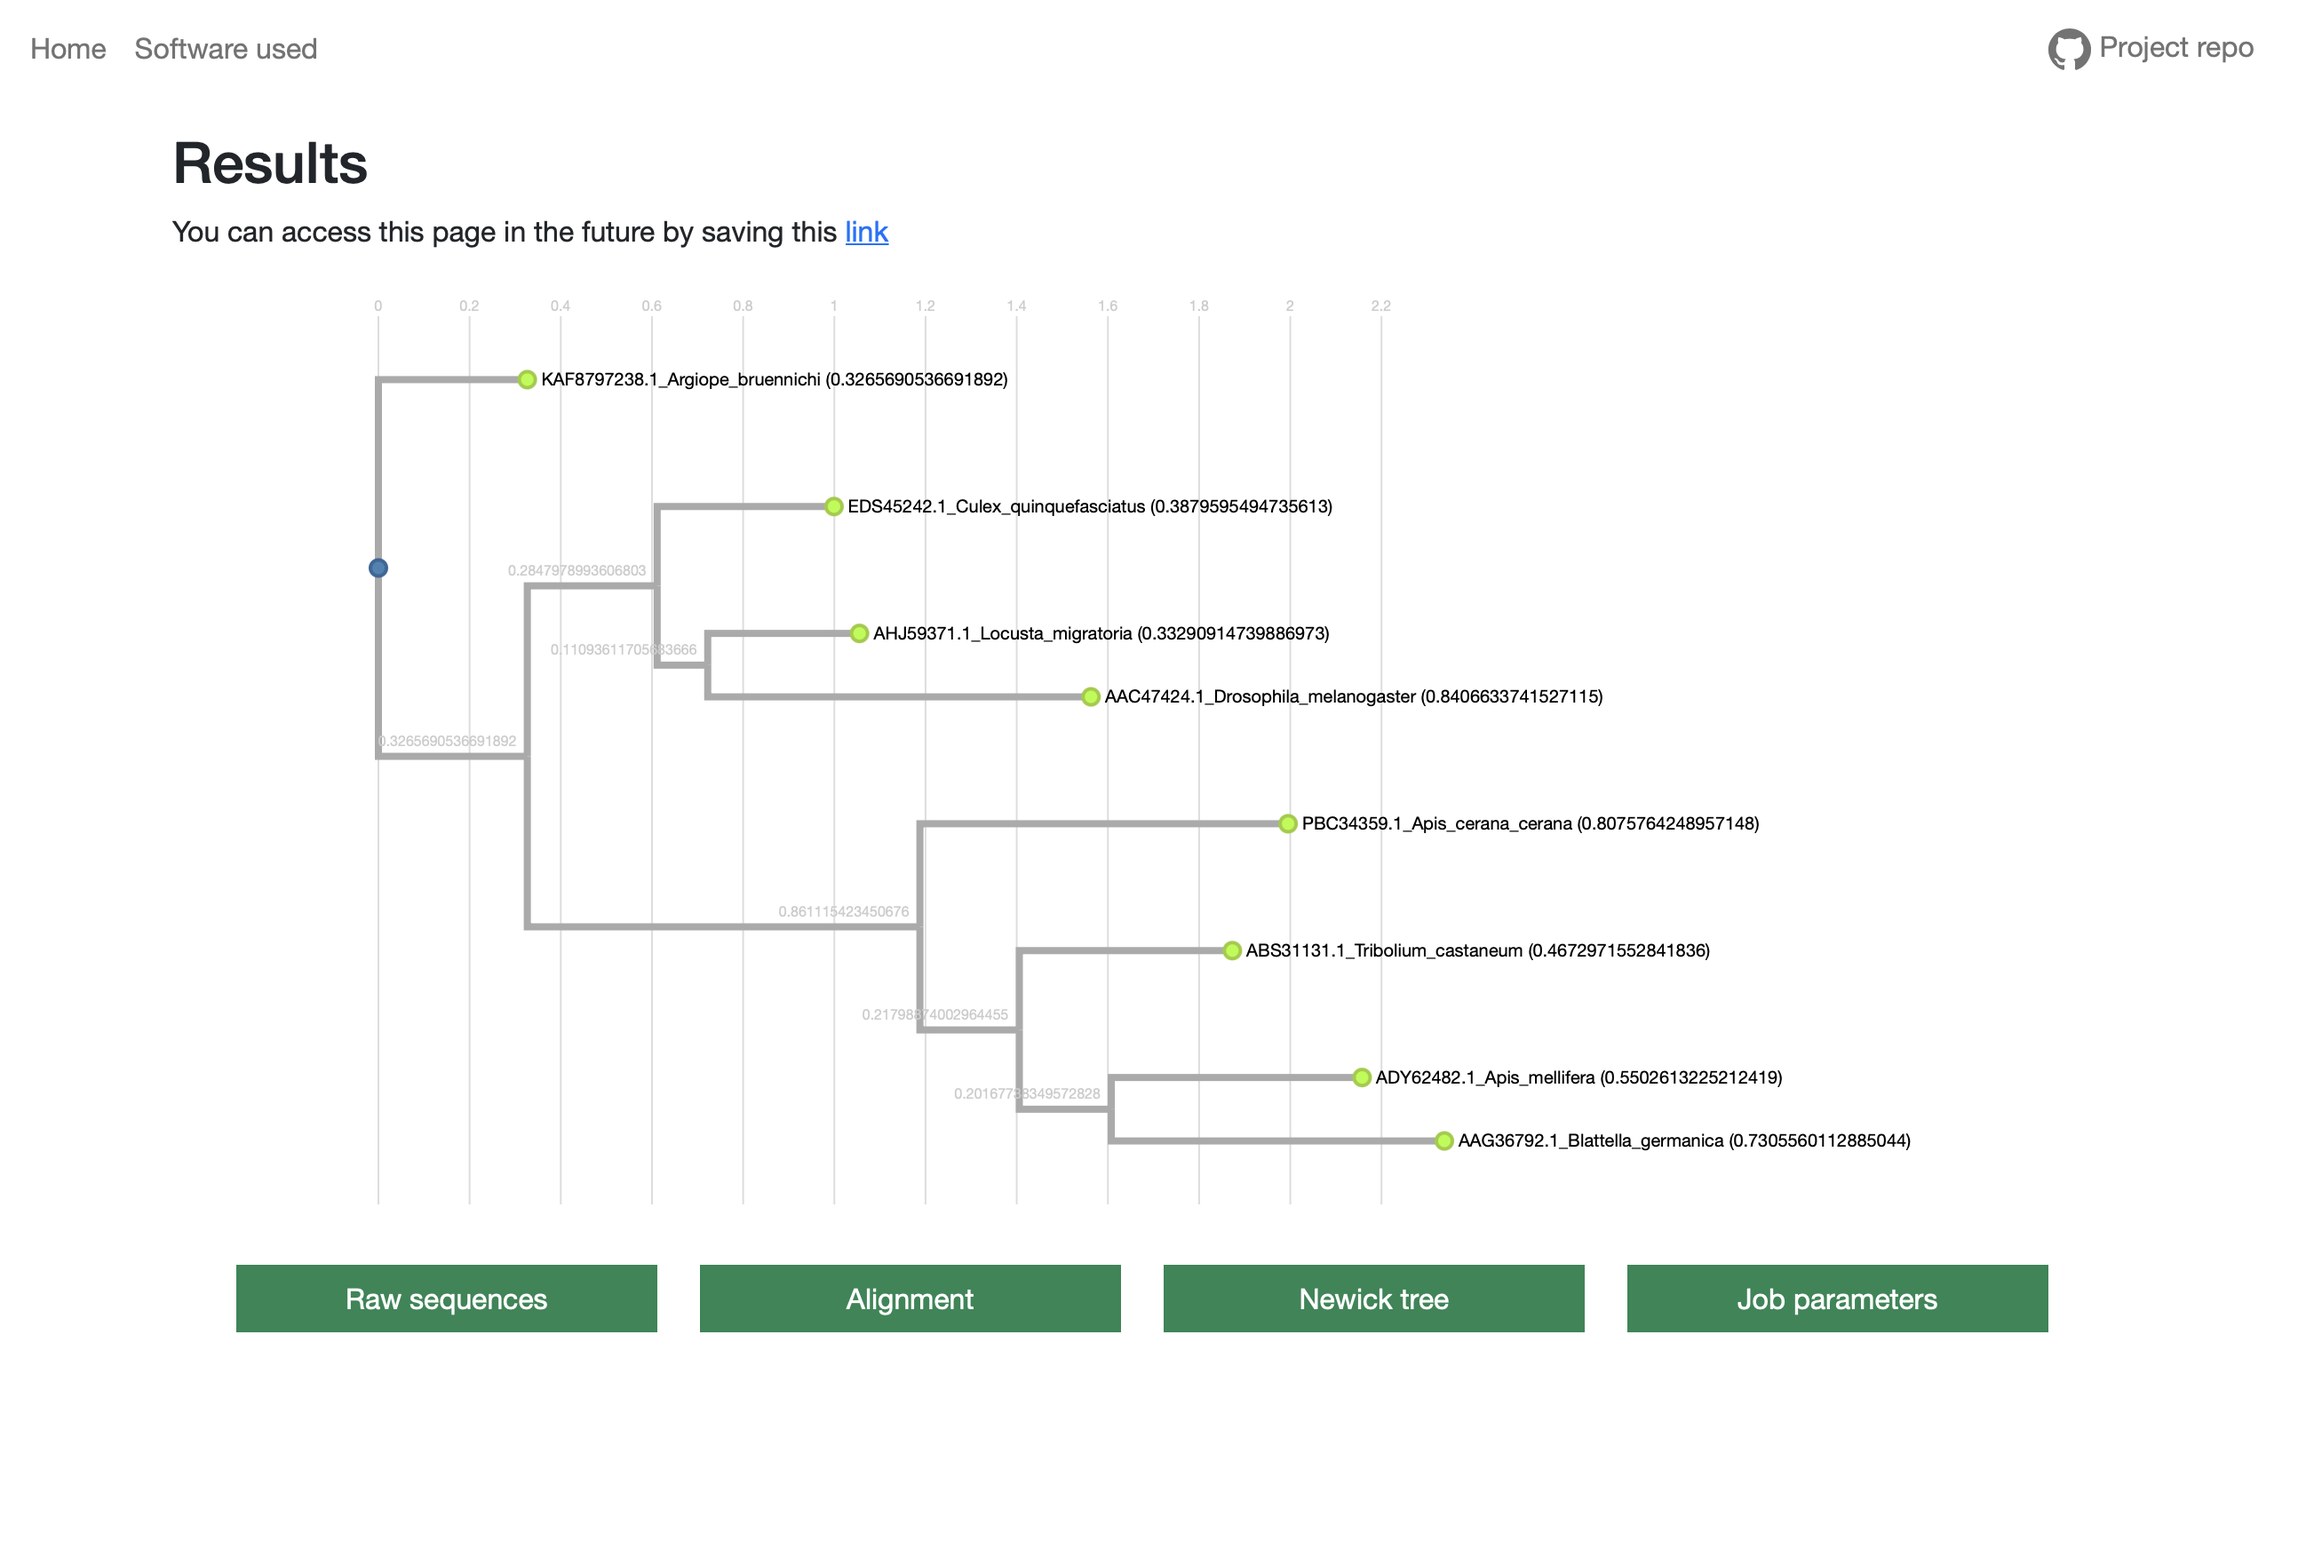
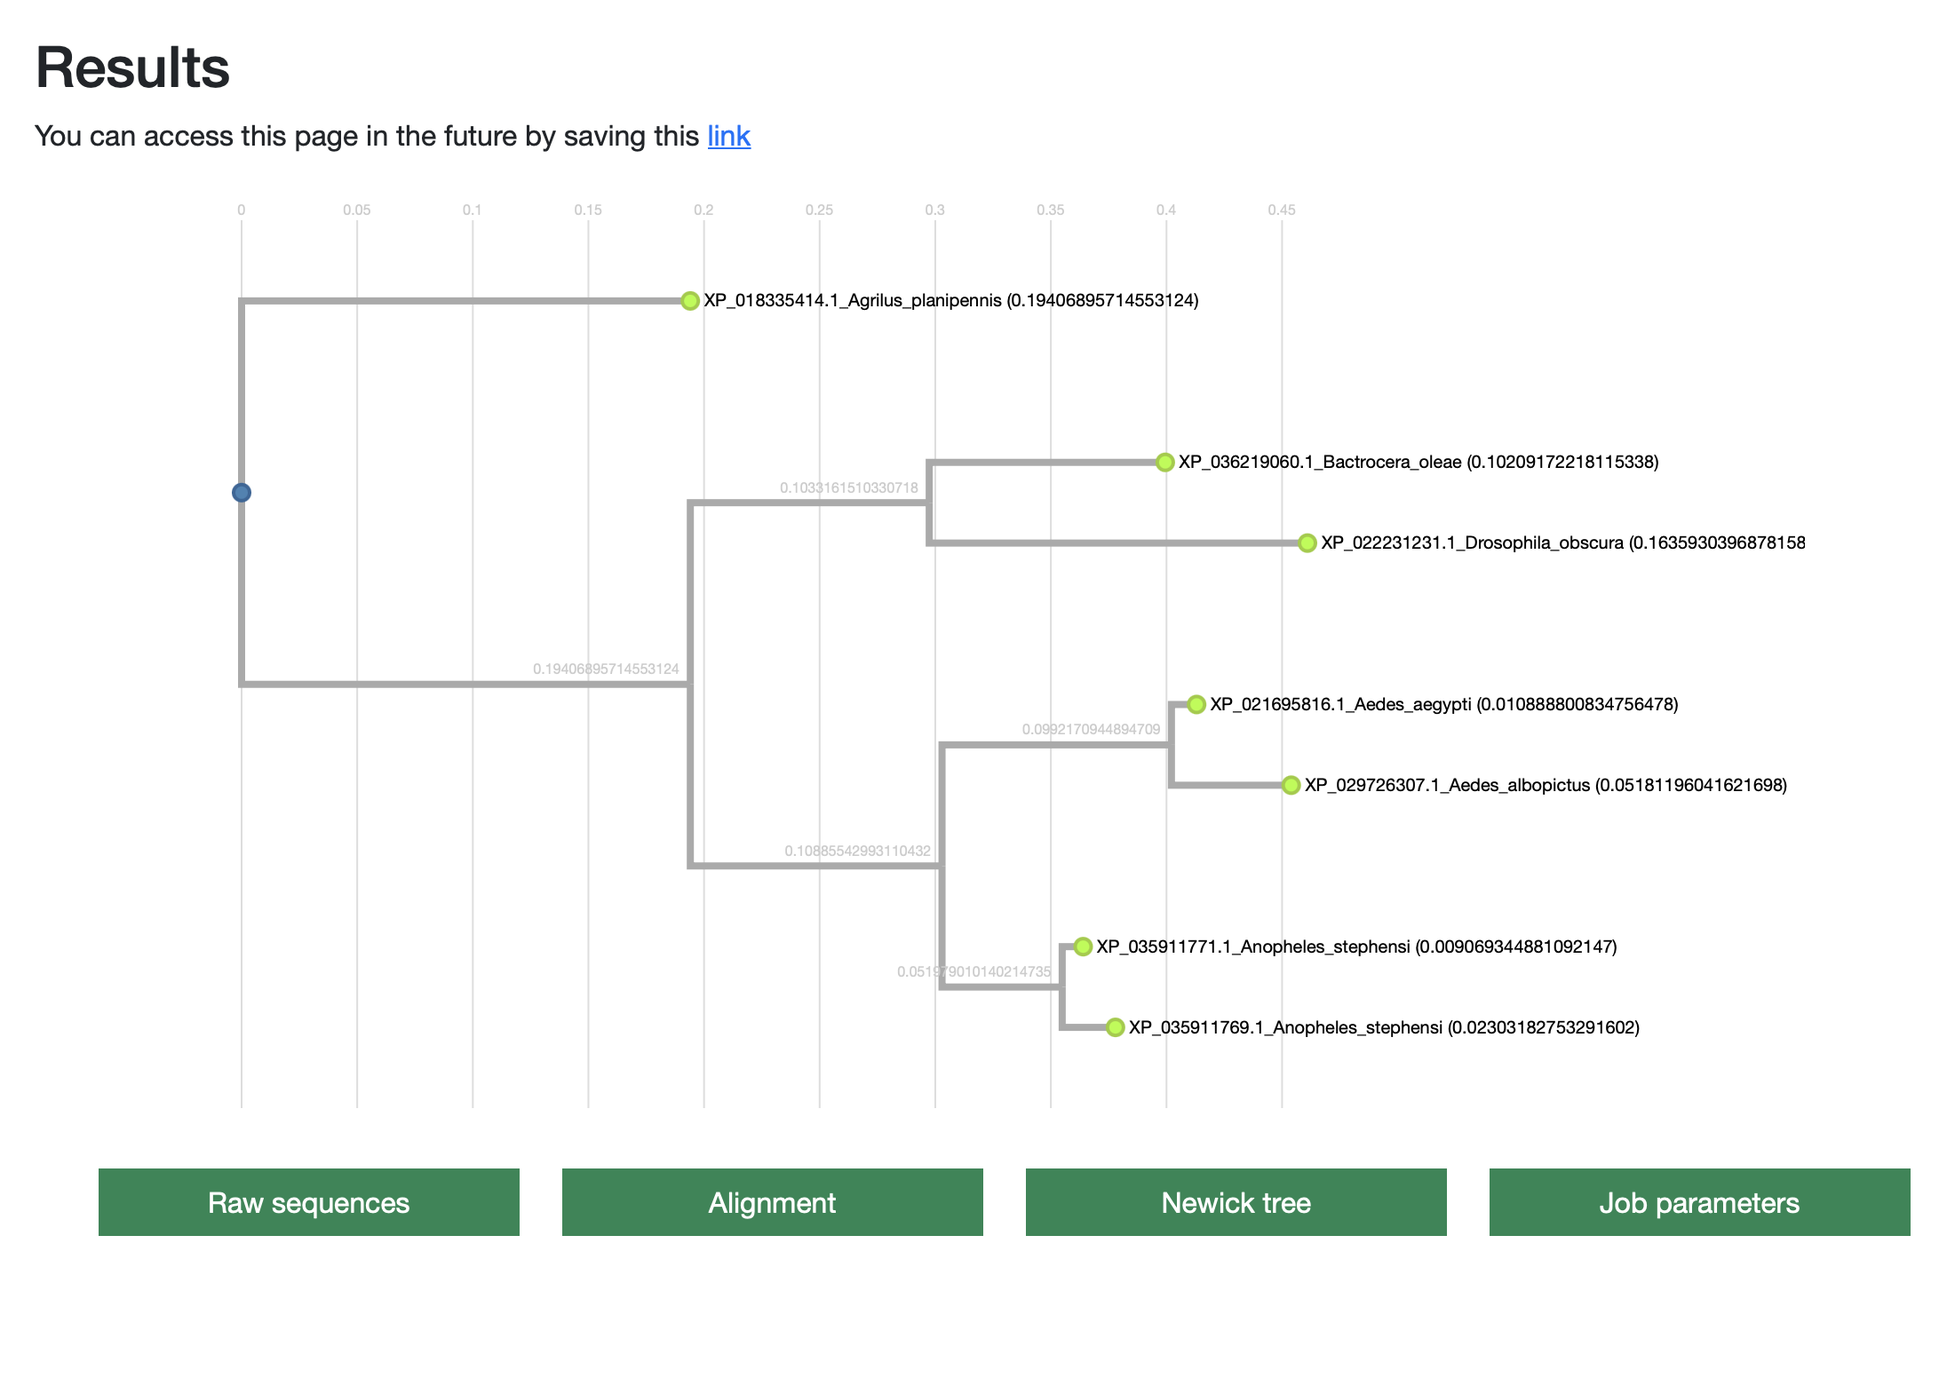
Update readme

diff --git a/README.md b/README.md
@@ -31,22 +31,29 @@ Finally, run the app with:
 flask run
 ```
 
+**Note**: In order to rerun the app, you need to set the environment variables and run flask once in the environment:
+```bash
+export FLASK_APP=phyloweb
+export FLASK_ENV=development
+flask run
+```
+
 The app will be served at localhost in port 5000 (http://127.0.0.1:5000).
 
 ## Usage
 The input page of the website has the following interface:
 
 ![](phyloweb/static/sample1.png)
-The sequences used in this sample correspond to the Cytochrome P450 protein present in arthropods. Accession numbers for the sample are the following:
+
+The sequences used in this sample correspond to one of the potassium channels in Diptera, using a beetle (XP_018335414.1) as outgroup. Accession numbers for the sample are the following:
 ```
-KAF8797238.1
-ABS31131.1
-EDS45242.1
-AAC47424.1
-PBC34359.1
-ADY62482.1
-AAG36792.1
-AHJ59371.1
+XP_029726307.1
+XP_035911771.1
+XP_035911769.1
+XP_021695816.1
+XP_036219060.1
+XP_022231231.1
+XP_018335414.1
 ```
 
 Settings are the following:
@@ -54,10 +61,10 @@ Settings are the following:
 Sequence type: Protein
 Include taxa names in result
 Alignment method: Clustal Omega
-Outgroup: KAF8797238.1
-Protein substitution model: PROTGAMMA
+Outgroup: XP_018335414.1
+Protein substitution model: PROTGAMMAI
 Aminoacid substitution model: BLOSUM62
-Random seed: 11111
+Random seed: 1337
 ```
 
 Once processed, the results can be visualized and downloaded in a new page:
